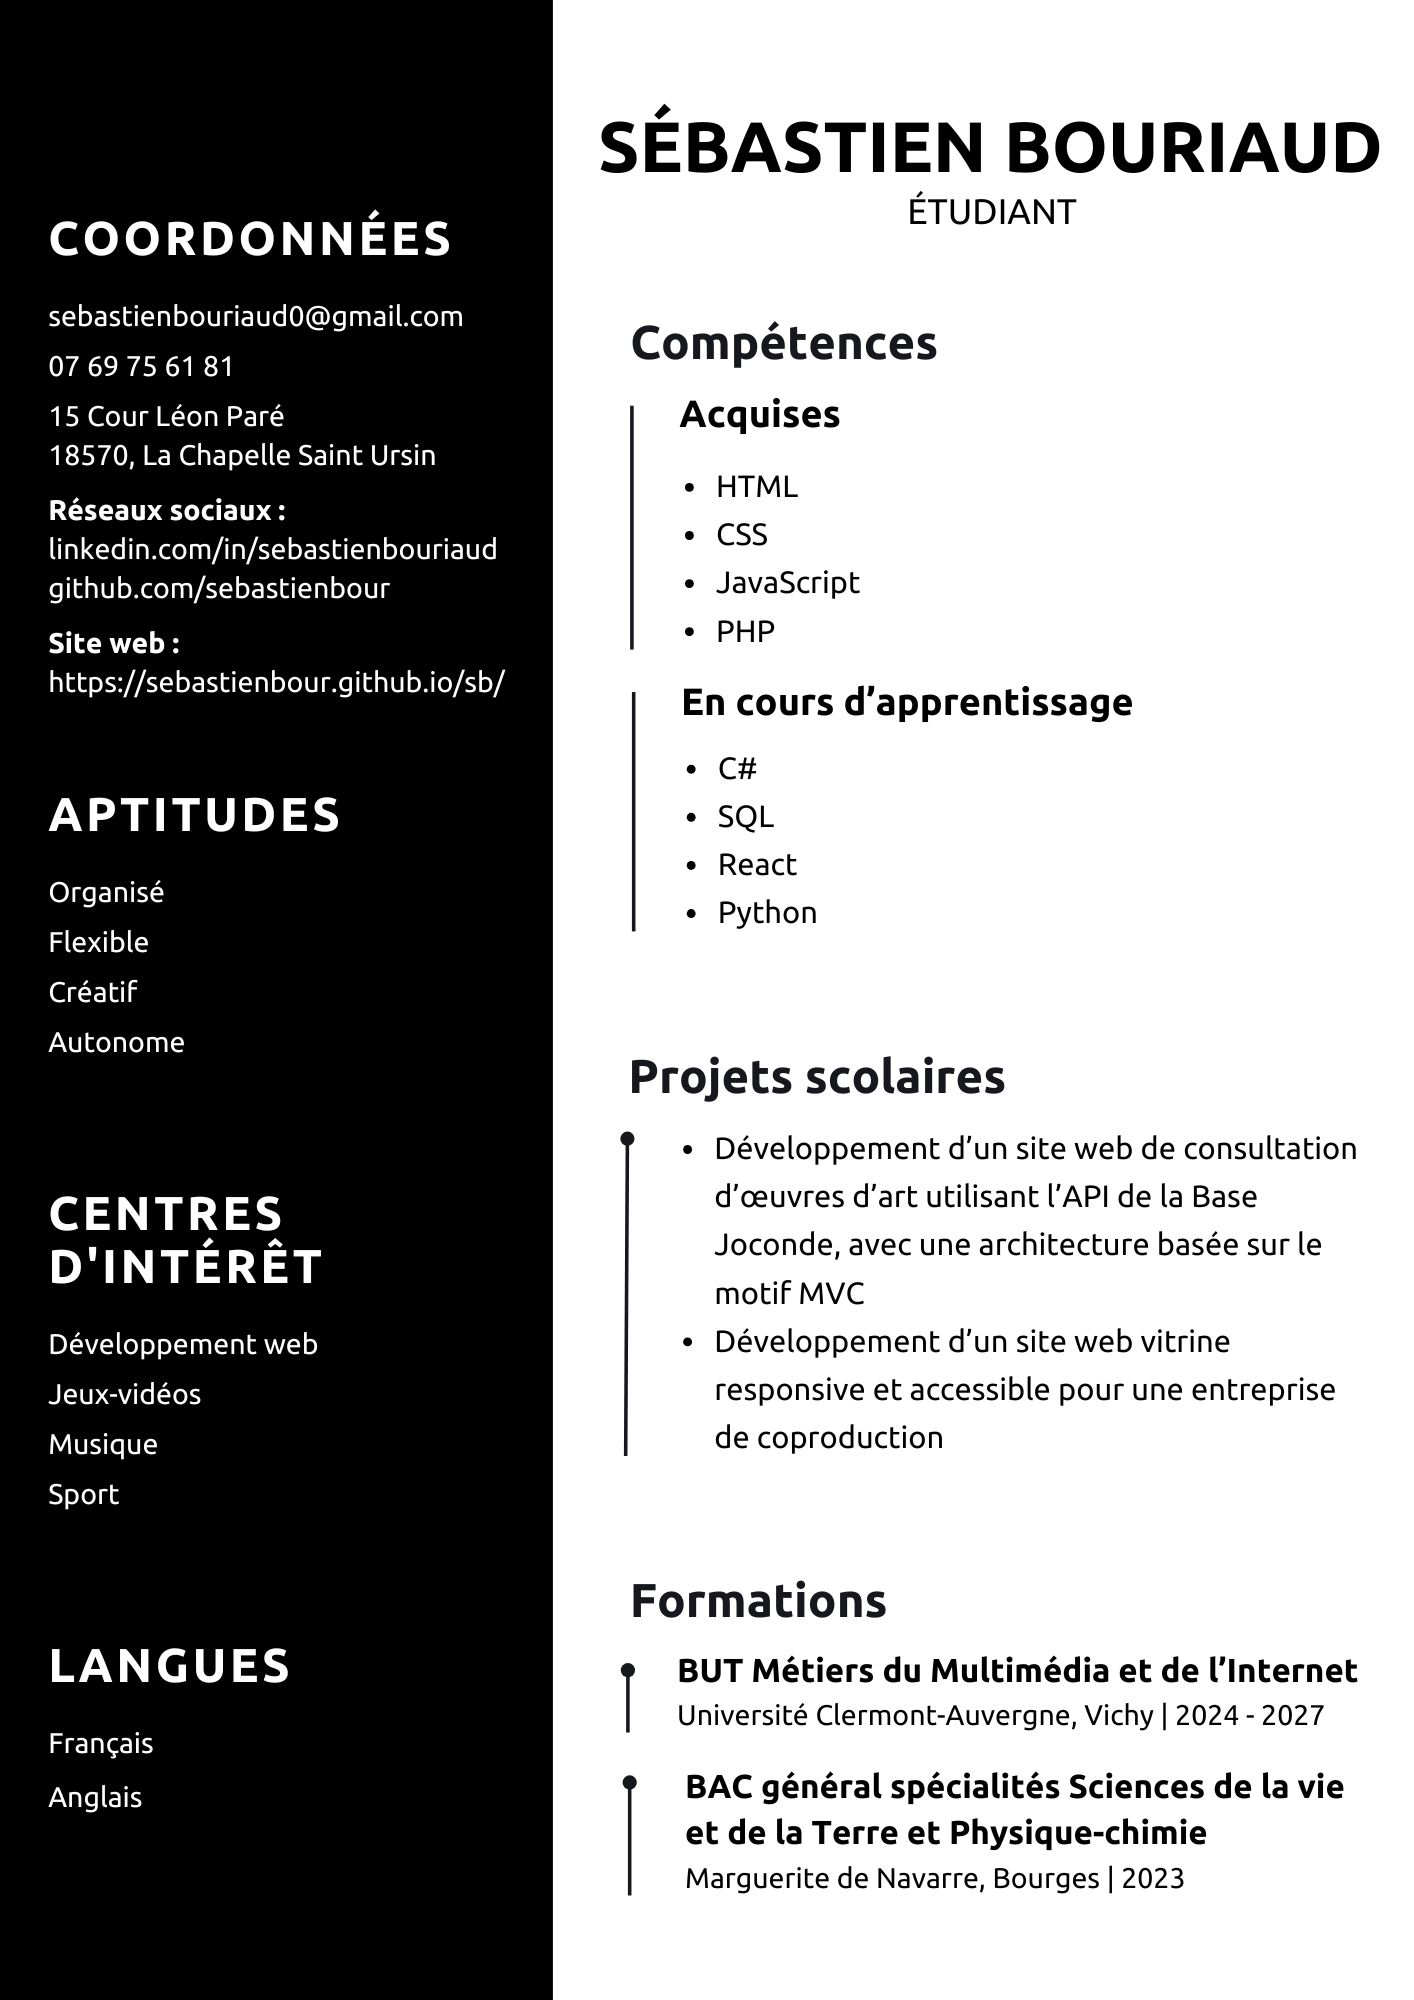
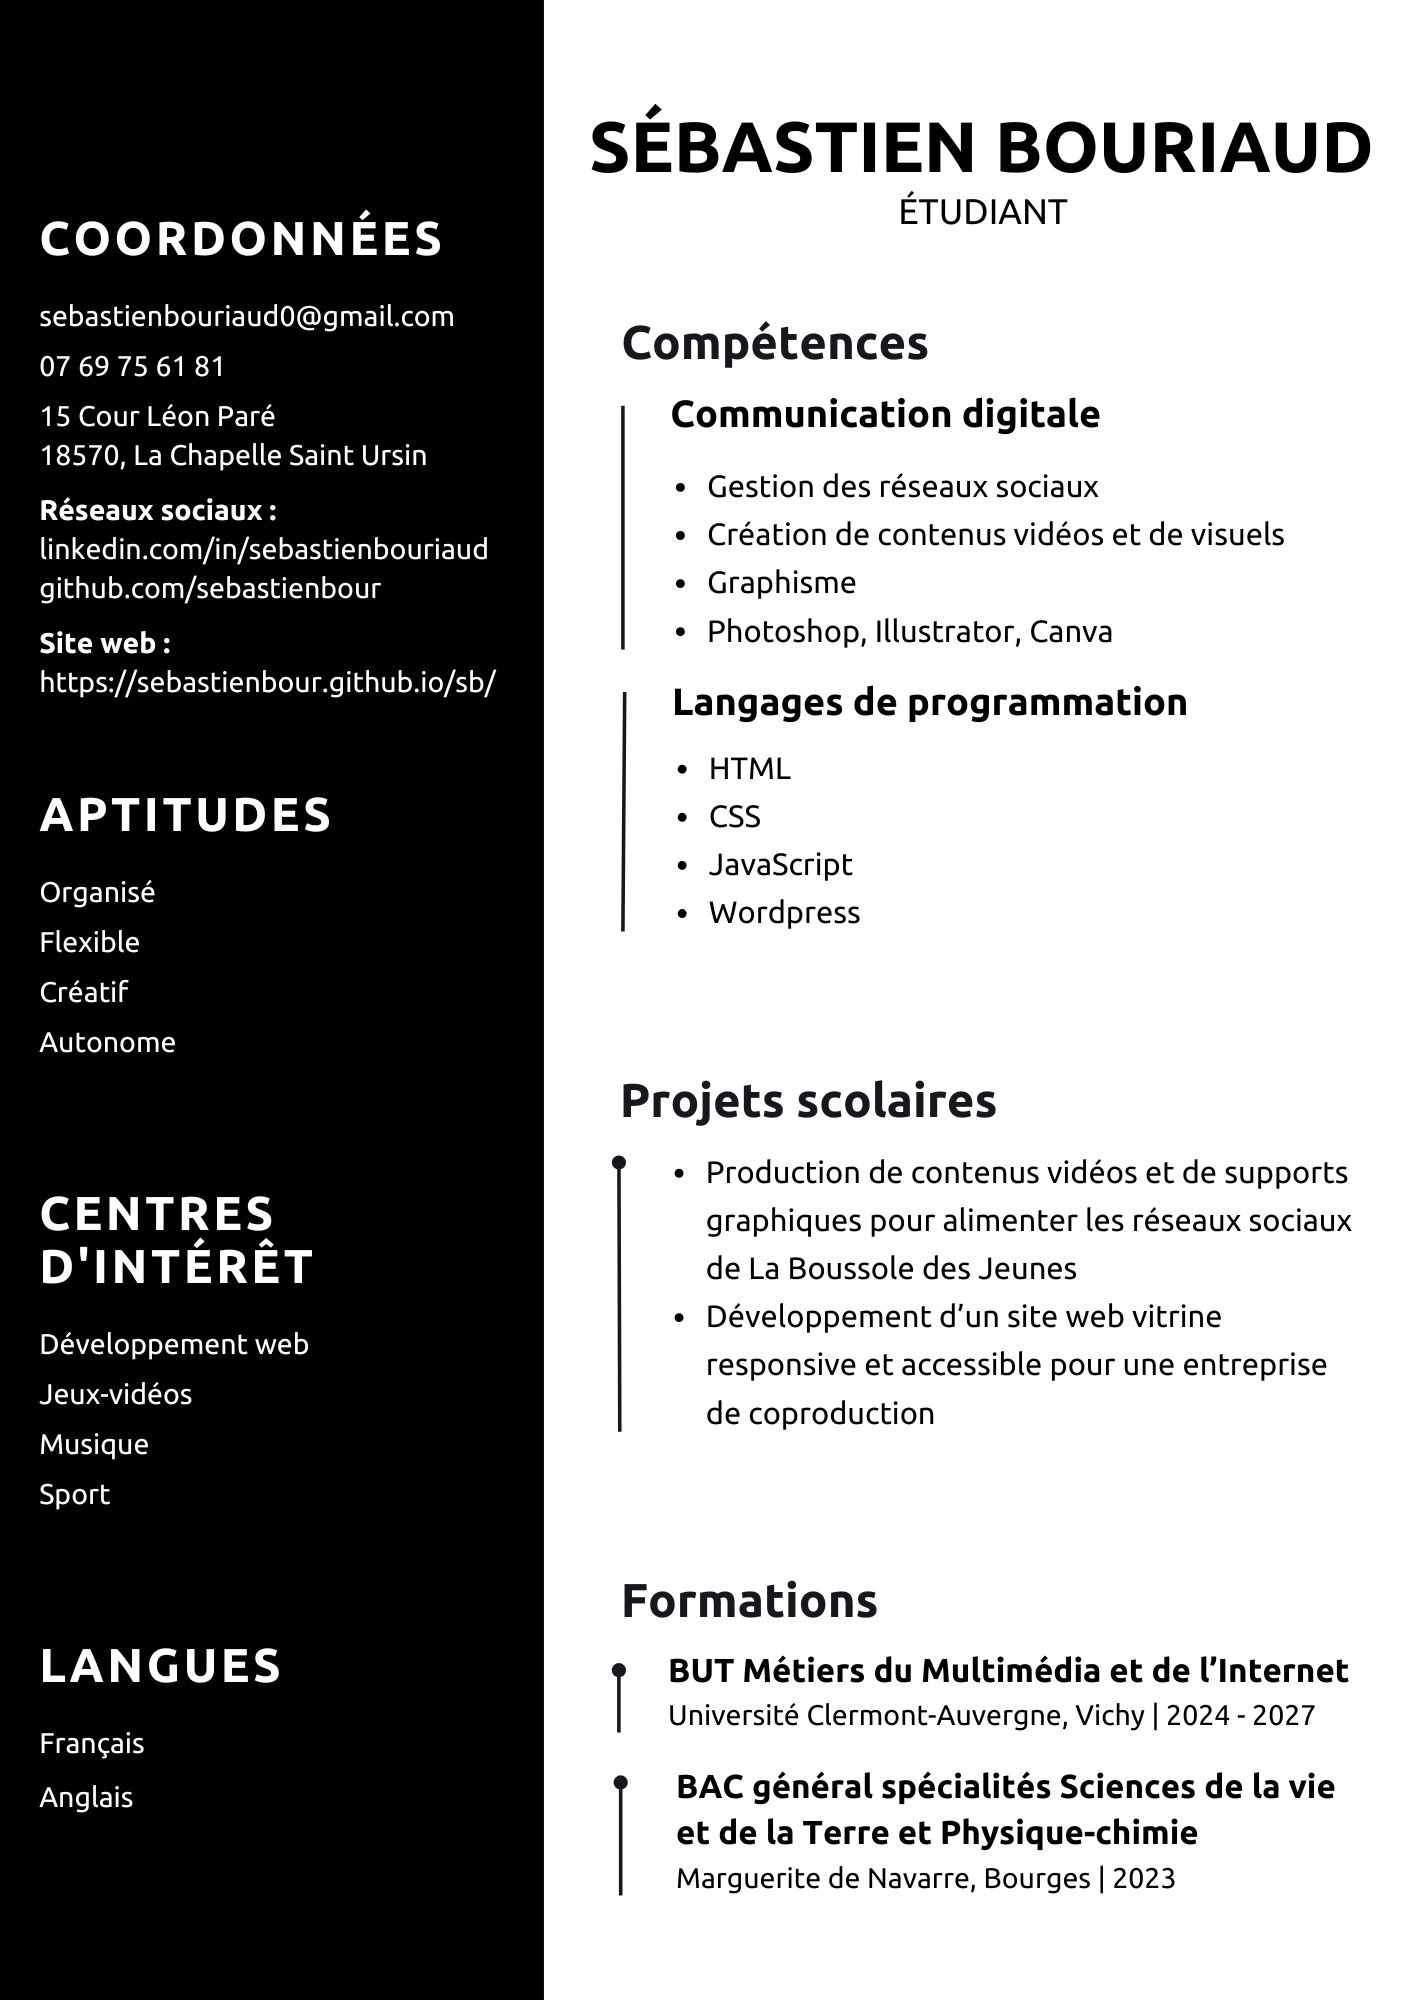
Add files via upload

diff --git a/index.html b/index.html
@@ -19,6 +19,7 @@
             <div class="nav-items">
                 <a href="#competences">Compétences</a>
                 <a href="#curriculum">Curriculum Vitae</a>
+                <a href="#realisations">Réalisations</a>
                 <a href="https://linkedin.com/in/sebastienbouriaud" target="_blank">
                     <svg xmlns="http://www.w3.org/2000/svg" viewBox="0 0 24 24">
                         <path d="M4 4m0 2a2 2 0 0 1 2 -2h12a2 2 0 0 1 2 2v12a2 2 0 0 1 -2 2h-12a2 2 0 0 1 -2 -2z" />
@@ -63,6 +64,8 @@
                     consultables sur mon profil GitHub.
                     <br><br>
                     Mon expérience <span>UX/UI</span> design me permet de faire du développement <span>front-end</span>, toutefois, j'aimerais par la suite m'orienter plus vers le <span>back-end</span>.
+                    <br><br>
+                    Je fais également du graphisme et de la production audiovisuelle.
                     <br><br>
                     En dehors de la programmation, j'aime écouter de la <i>musique</i>, notamment de l'électro. 
                     Mon album préféré est <a id="trilogy" href="https://carpenterbrut.bandcamp.com/album/trilogy" target="_blank">Trilogy</a> 
@@ -139,6 +142,20 @@
                         <img src="img/Python.png" alt="Python">
                     </div>
                 </div>
+                <p>
+                    <br>
+                    Je sais utiliser les logiciels suivants :
+                    <br><br>
+                    <ul>
+                        <li>Visual Studio Code</li>
+                        <li>Figma</li>
+                        <li>Canva</li>
+                        <li>Photoshop</li>
+                        <li>Illustrator</li>
+                        <li>After Effects</li>
+                        <li>DaVinci Resolve</li>
+                    </ul>
+                </p>
             </div>
         </div>
         <div class="container" id="container">
@@ -150,6 +167,43 @@
                     <br><br>
                 </p>
                 <img src="img/CV-Sébastien_Bouriaud.jpg" alt="Curriculum Vitae Sébastien Bouriaud" style="border: 2px solid var(--secondary-color);">
+            </div>
+        </div>
+        <div class="container" id="container">
+            <div class="content">
+                <h2 id="realisations">Réalisations</h2>
+                <!-- <p>
+                    <br>
+                    Vidéos : 
+                    <br><br>
+                </p>
+                <video controls>
+                    <source src="vid/video1.mp4" type="video/mp4">
+                    Your browser does not support the video tag.
+                </video> -->
+                <p>
+                    <br><br>
+                    Photos : 
+                    <br><br>
+                </p>
+                <img src="img/p1.JPG" alt="Photo de Vichy">
+                <br>
+                <img src="img/p2.JPG" alt="Photo de Vichy">
+                <br>
+                <img src="img/p3.JPG" alt="Photo de Vichy">
+                <p>
+                    <br><br>
+                    Graphisme : 
+                    <br><br>
+                </p>
+                <img src="img/affiche.png" alt="Affiche pour la Japan Event">
+            </div>
+        </div>
+        <div class="container" id="container">
+            <div class="content" style="border: none; align-items: center; font-size: .9em;">
+                <p>
+                    Contact : sebastienbouriaud0@gmail.com
+                </p>
             </div>
         </div>
         <div class="tooltip" id="tooltip"></div>

diff --git a/style.css b/style.css
@@ -125,6 +125,15 @@ span{
     color: var(--secondary-color);
 }
 
+ul{
+    margin-left: 1.5rem;
+    color: var(--text-color);
+}
+
+li{
+    margin-bottom: .5rem;
+}
+
 .row{
     display: flex;
     justify-content: space-around;
@@ -135,7 +144,7 @@ span{
 
 .inf{
     display: flex;
-    justify-content: flex-end;
+    justify-content: center;
     align-items: center;
     gap: 16px;
     flex: 1 1 calc(50% - 16px);
@@ -227,6 +236,10 @@ span{
         flex: 100%;
         padding-right: 0;
         justify-content: flex-start;
+    }
+
+    .row{
+        margin-bottom: 14px;
     }
 }
 
